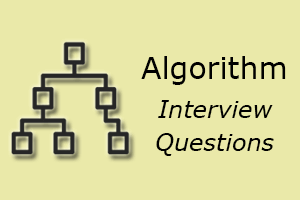
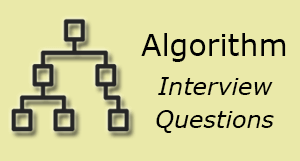
fixed typo and ui changes

diff --git a/src/style.css b/src/style.css
@@ -452,6 +452,7 @@ html {
   padding-bottom: 50px !important;
   padding-left: 25px !important;
   padding-right: 25px !important;
+  height: auto !important;
 }
 
 .project-card-view {
@@ -460,6 +461,7 @@ html {
   background-color: transparent !important;
   opacity: 0.9 !important;
   transition: all 0.5s ease 0s !important;
+  height: 100% !important;
 }
 .project-card-view:hover {
   transform: scale(1.02) !important;
@@ -472,6 +474,7 @@ html {
   padding-bottom: 50px !important;
   padding-left: 25px !important;
   padding-right: 25px !important;
+  height: auto !important;
 }
 
 .blog-card-view {
@@ -479,6 +482,7 @@ html {
   box-shadow: 0 3px 3px 2px rgba(145, 77, 161, 0.459) !important;
   color: white !important;
   transition: all 0.5s ease 0s !important;
+  height: 100% !important;
 }
 
 .blog-link {

diff --git a/src/components/Projects/Projects.js b/src/components/Projects/Projects.js
@@ -62,7 +62,7 @@ function Projects() {
               imgPath={eeg}
               isBlog={false}
               title="Emotion Predcition from EEG Signals"
-              description="Using EEG signals from 'AMIGOS' Dataset to extract features and train a classifier that helps in detection of human emitions from Brain Signals."
+              description="Using EEG signals from 'AMIGOS' Dataset to extract features and train a classifier that helps in detection of human emotions from Brain Signals."
               link="https://gist.github.com/soumyajit4419/dc94177bc4954752051798f88fbce1df"
             />
           </Col>